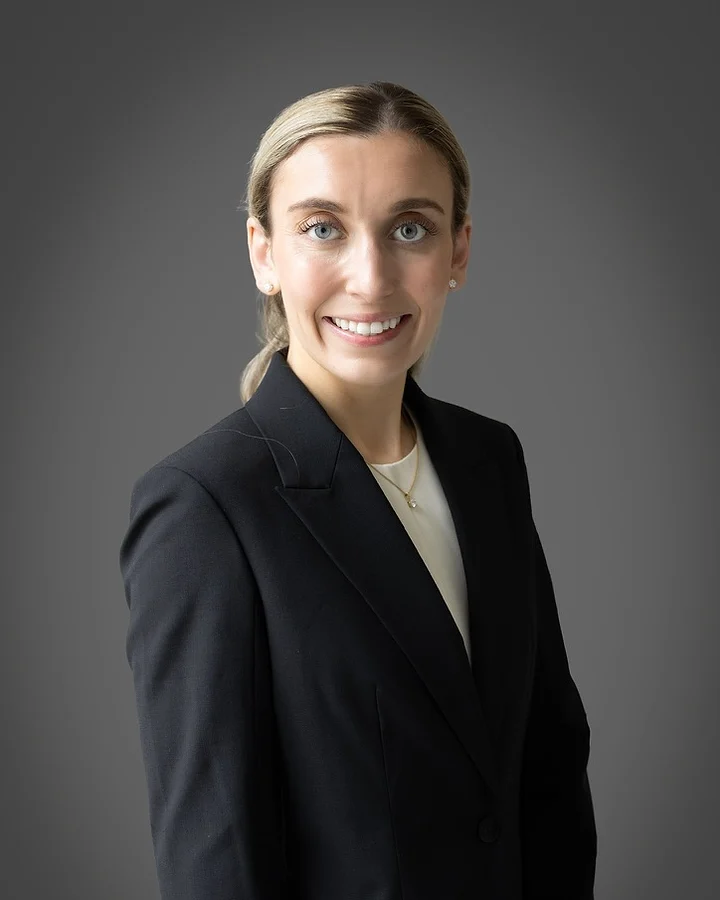
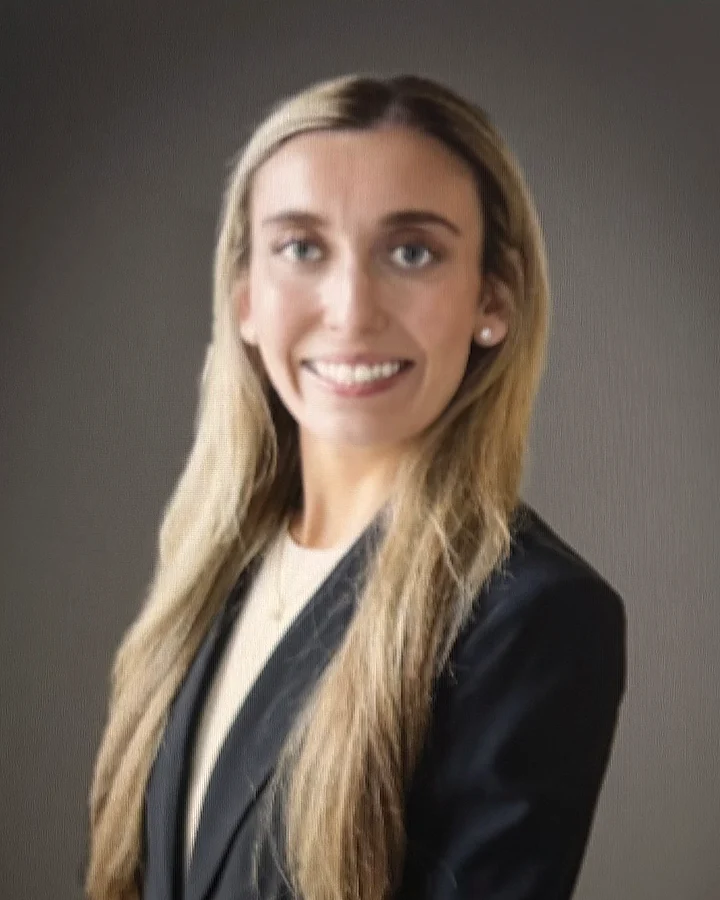
Hair-down headshot everywhere, frizz cleaned; restore 'Any size' stat
- Home circle, About portrait and share image use the hair-down photo,
  with the stray wisp on the left side of the hair removed
- Stat back to 'Any size - thriving in small offices and global firms
  alike'

Claude-Session: https://claude.ai/code/session_01MBkUneGQ1Khq48mGjsU5PW

diff --git a/src/resume.ts b/src/resume.ts
@@ -32,7 +32,7 @@ export const STATS = [
 	{ value: '8 years', label: 'of executive support and office management' },
 	{ value: 'People first', label: 'caring about executives’ wellbeing, families and lives' },
 	{ value: 'Custom AI', label: 'workflows designed and built for each partner' },
-	{ value: 'Small to global', label: 'from running a 10‑person office solo to supporting a global firm' },
+	{ value: 'Any size', label: 'thriving in small offices and global firms alike' },
 ];
 
 export const STRENGTHS = [
